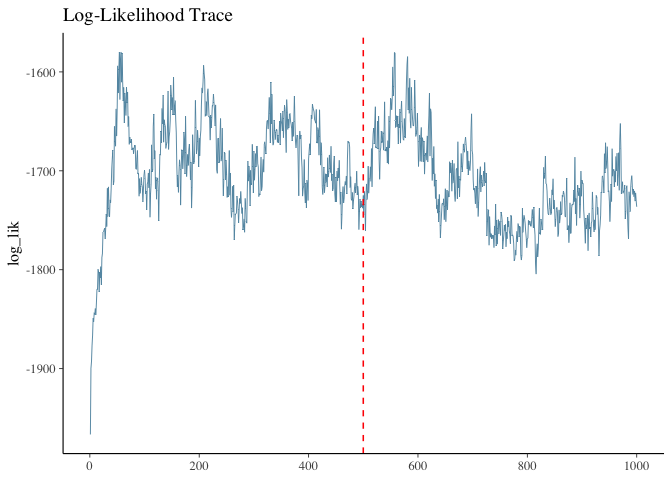
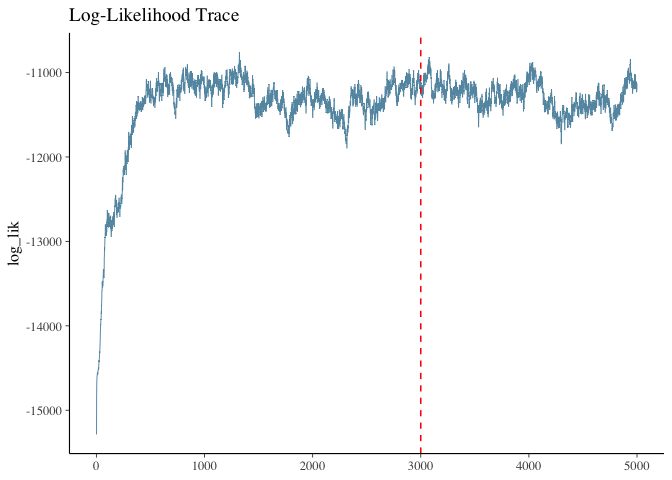
update README

diff --git a/README.md b/README.md
@@ -39,10 +39,10 @@ set.seed(42)
 
 # Generate synthetic observations and true parameters
 toy = generate_toy_data(
-  n_cust = 30, 
+  n_cust = 100, 
   n_item = 5, 
-  n_topic = 3,
-  length_time = 24, 
+  n_topic = 2,
+  length_time = 52, 
   n_var = 2, 
   p_dim = 1
 )
@@ -54,28 +54,18 @@ Initialize the model specification and run the Gibbs sampler.
 
 ``` r
 # Define model
-model = mrdltm_model(observations = toy$observations, n_topic = 3)
+model = mrdltm_model(observations = toy$observations, n_topic = 2)
 
 # Run MCMC
-iter = 1000
-burnin = 500
+iter = 5000
+burnin = 3000
 timer = system.time({
-  res = mrdltm_mcmc(model = model, iter = iter, burnin = burnin)
+  res = mrdltm_mcmc(model = model, iter = iter, burnin = burnin, quiet = TRUE)
 })
-#> Starting Gibbs Sampling: 1000 iterations (burn-in: 500)
-#> Iteration 100 / 1000 (Burn-in)
-#> Iteration 200 / 1000 (Burn-in)
-#> Iteration 300 / 1000 (Burn-in)
-#> Iteration 400 / 1000 (Burn-in)
-#> Iteration 500 / 1000 (Burn-in)
-#> Iteration 600 / 1000 (Sampling)
-#> Iteration 700 / 1000 (Sampling)
-#> Iteration 800 / 1000 (Sampling)
-#> Iteration 900 / 1000 (Sampling)
-#> Iteration 1000 / 1000 (Sampling)
+#> Starting Gibbs Sampling: 5000 iterations (burn-in: 3000)
 
 cat(sprintf("Total Elapsed Time: %.2f minutes\n", timer["elapsed"] / 60))
-#> Total Elapsed Time: 0.63 minutes
+#> Total Elapsed Time: 0.53 minutes
 ```
 
 ### 3. Diagnostics and Recovery
@@ -94,54 +84,48 @@ mcmc_trace(log_lik_all) +
 <img src="man/figures/README-unnamed-chunk-5-1.png" alt="" width="100%" />
 
 ``` r
-# Parameter Recovery and Label Switching Diagnostics
+# --- Parameter Recovery Visualization (Beta) ---
+library(tidyverse)
 
-# 1. Extract post-burnin samples
-beta_post <- extract_samples(res, "beta", burnin = 0)
-post_means <- colMeans(beta_post[, 1, ])
+# 1. Extract post-burnin samples [Iteration, Topic, Item, Variable]
+beta_samples = res$beta[(burnin + 1):iter, , , ]
+d = dim(beta_samples)
 
-# 2. Identify the best mapping between Estimated Topics and True Topics
-# This logic finds which True Topic best matches each Estimated Topic (MSE based)
-n_z <- model$n_topic
-mapping <- sapply(1:n_z, function(z_est) {
-  mses <- sapply(1:n_z, function(z_true) {
-    # Extract estimated values for this topic
-    est_vals <- post_means[grep(sprintf("beta[z%d,", z_est), names(post_means), fixed = TRUE)]
-    # Extract corresponding true values from toy object
-    true_vals <- as.vector(toy$true_params$beta_zi[z_true, , ])
-    mean((est_vals - true_vals)^2)
+# 2. Process Posterior Traces and Ground Truth
+plot_data = map_dfr(1:d[4], function(v) {
+  map_dfr(1:d[3], function(i) {
+    # Prepare sorted traces
+    traces_raw = as.data.frame(t(apply(beta_samples[, , i, v], 1, sort)))
+    topic_names = colnames(traces_raw) # V1, V2...
+    
+    traces = traces_raw |>
+      mutate(Iteration = row_number(), 
+             Item_Idx = paste("Item", i), 
+             Var_Idx = paste("Var", v)) |>
+      pivot_longer(cols = all_of(topic_names), names_to = "Topic", values_to = "Value")
+    
+    # Prepare ground truth
+    truths = data.frame(
+      Topic = topic_names, 
+      TrueValue = sort(toy$true_params$beta_zi[, i, v]),
+      Item_Idx = paste("Item", i), 
+      Var_Idx = paste("Var", v)
+    )
+    
+    left_join(traces, truths, by = c("Topic", "Item_Idx", "Var_Idx"))
   })
-  which.min(mses)
 })
 
-# 3. Align True Values to the Estimated Parameter Labels
-# Create a named vector of true values for bayesplot functions
-true_beta_vec <- sapply(names(post_means), function(name) {
-  # Parse indices: z (topic), i (item), v (variable)
-  idx <- as.numeric(unlist(regmatches(name, gregexpr("[0-9]+", name))))
-  # Map estimated topic index to true topic index
-  toy$true_params$beta_zi[mapping[idx[1]], idx[2], idx[3]]
-})
-
-# 4. Plot Trace Plots with True Values (Red Dashed Lines)
-# This confirms if the chains converged to the correct ground truth
-mcmc_trace(beta_post, pars = vars(contains("i1"))) +
-  geom_hline(data = data.frame(
-               parameter = names(true_beta_vec[grepl("i1", names(true_beta_vec))]),
-               true_val = true_beta_vec[grepl("i1", names(true_beta_vec))]
-             ),
-             aes(yintercept = true_val), color = "red", linetype = "dashed") +
-  ggtitle("Trace Plots for Beta (Item 1) with True Values")
+# 3. Grid Visualization
+ggplot(plot_data, aes(x = Iteration, y = Value, color = Topic)) +
+  geom_line(alpha = 0.5, linewidth = 0.2) +
+  geom_hline(aes(yintercept = TrueValue, color = Topic), linetype = "dashed", alpha = 0.8) +
+  facet_grid(Var_Idx ~ Item_Idx, scales = "free_y") +
+  labs(title = "MR-DLTM: Beta Parameter Recovery",
+       subtitle = "Solid lines: Sorted MCMC traces | Dashed lines: Ground truth",
+       x = "Iteration (Post-Burnin)", y = "Coefficient Value") +
+  theme_minimal() +
+  theme(legend.position = "none", strip.background = element_rect(fill = "gray95"))
 ```
 
 <img src="man/figures/README-unnamed-chunk-6-1.png" alt="" width="100%" />
-
-``` r
-
-# 5. Plot Posterior Intervals with True Values (Red Points)
-# Using 'true' argument to automatically overlay ground truth
-mcmc_intervals(beta_post, pars = vars(contains("i1")), prob = 0.95) +
-  ggtitle("Posterior 95% Intervals for Beta (Item 1) with True Values")
-```
-
-<img src="man/figures/README-unnamed-chunk-6-2.png" alt="" width="100%" />
